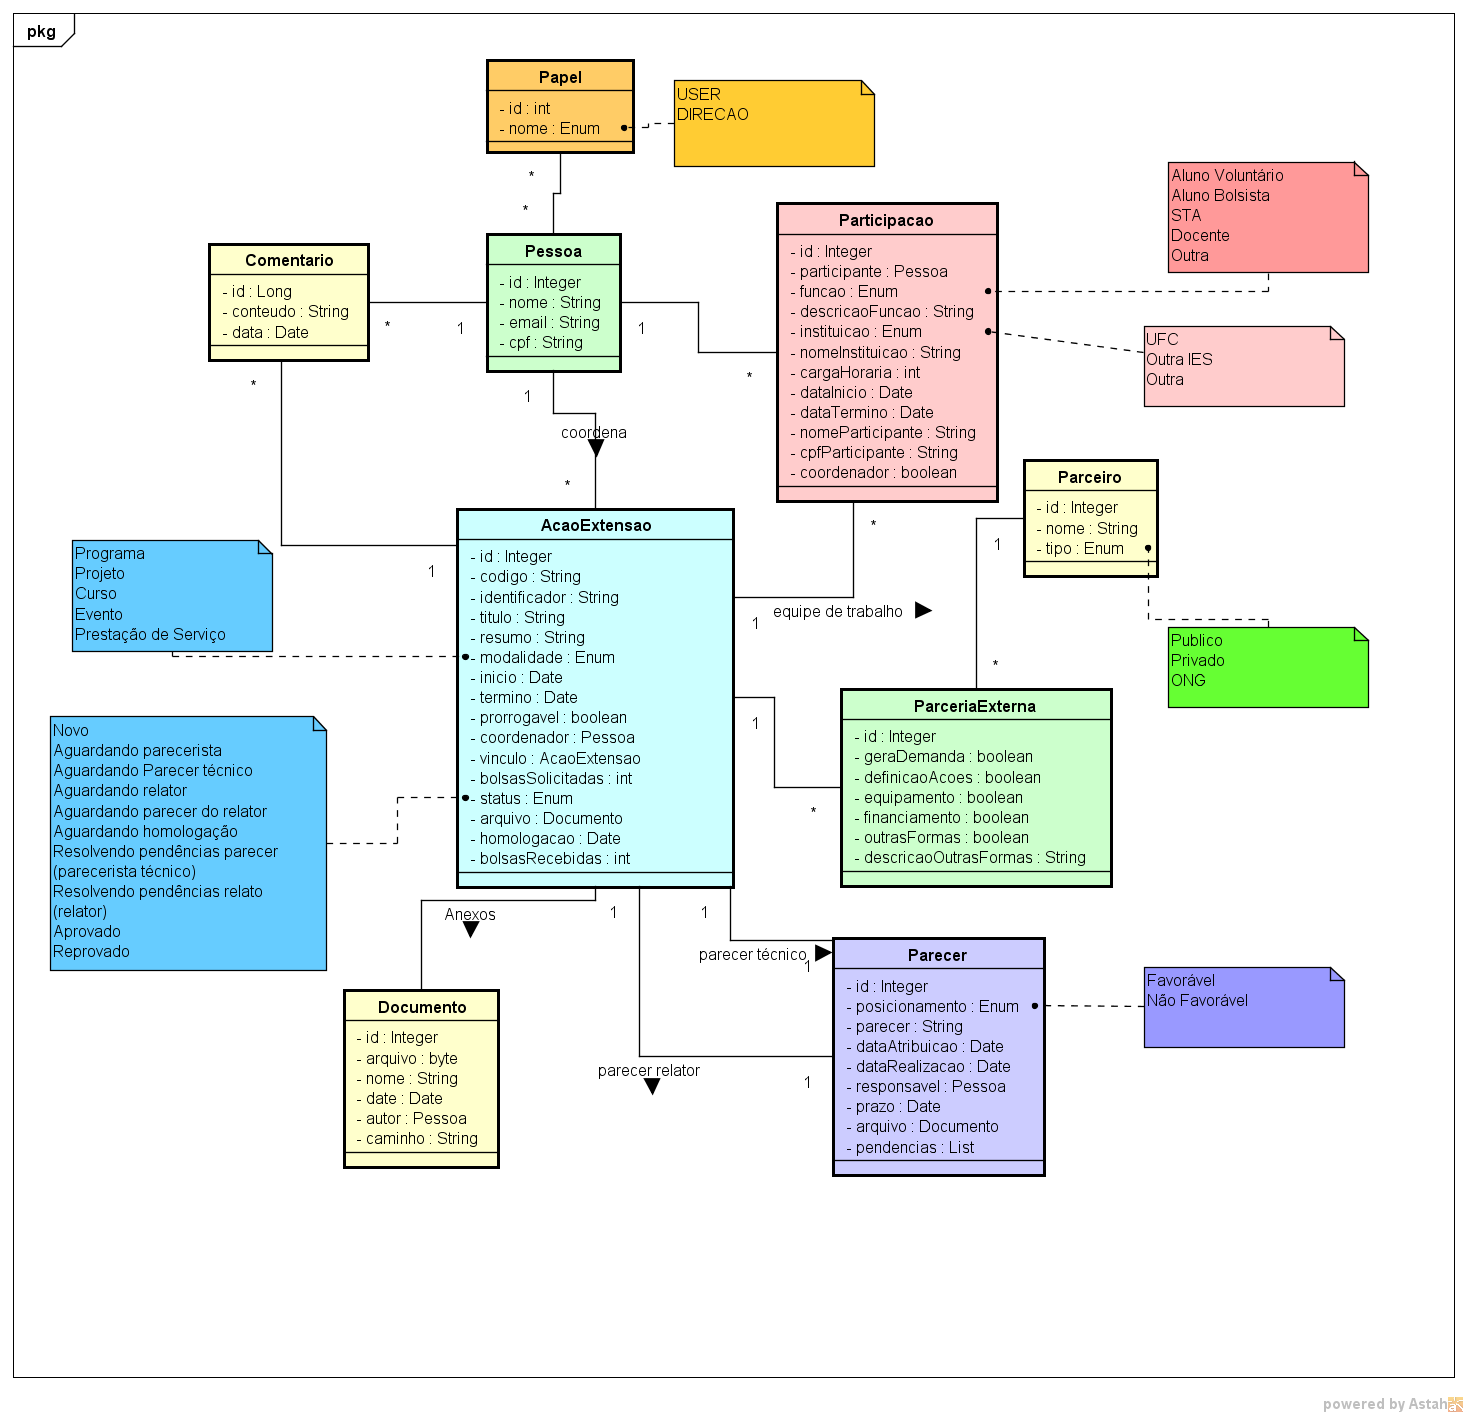
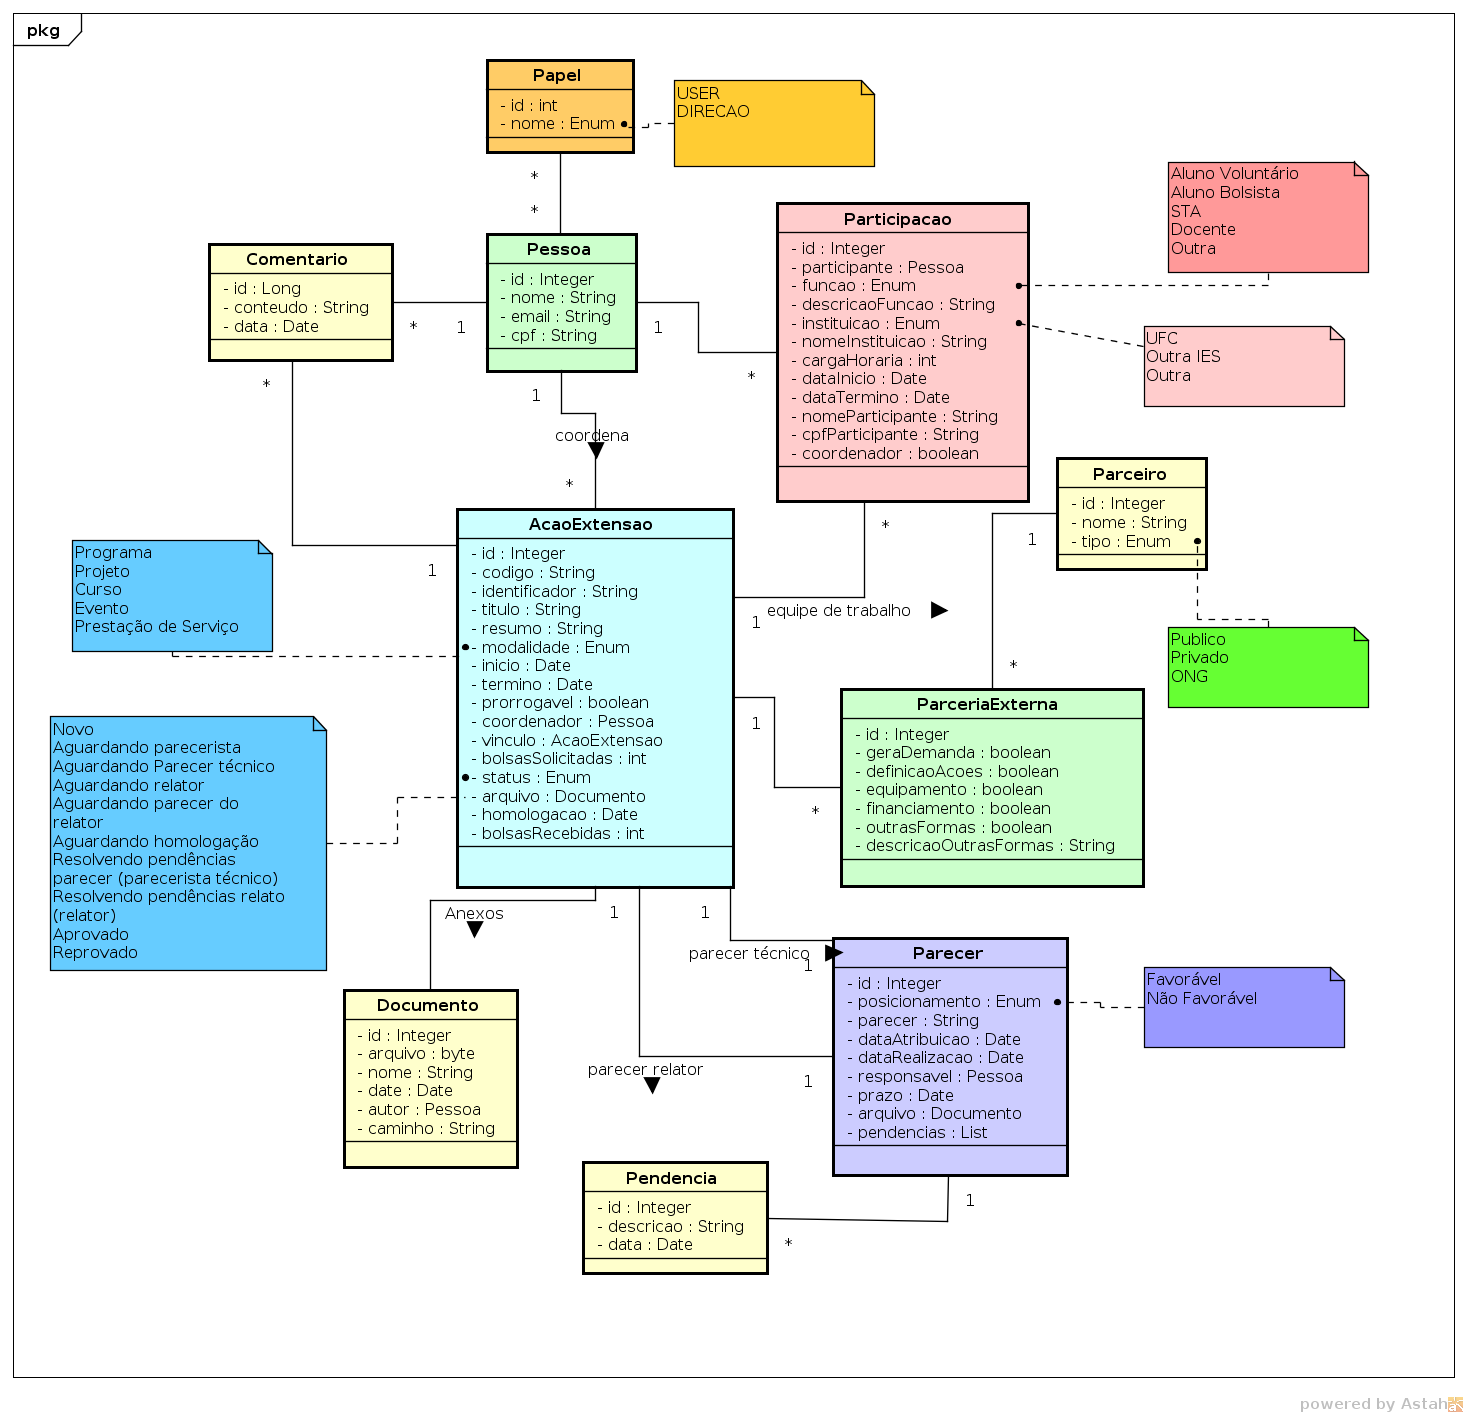
JNDI configurado para criar tabelas e diagrama de classe atualizado

diff --git a/aplicacao/gpa-extensao/src/main/java/ufc/quixada/npi/gpa/model/Pendencia.java b/aplicacao/gpa-extensao/src/main/java/ufc/quixada/npi/gpa/model/Pendencia.java
@@ -1,0 +1,70 @@
+package ufc.quixada.npi.gpa.model;
+
+import java.util.Date;
+
+import javax.persistence.Column;
+import javax.persistence.Entity;
+import javax.persistence.GeneratedValue;
+import javax.persistence.GenerationType;
+import javax.persistence.Id;
+
+@Entity
+public class Pendencia {
+	@Id
+	@GeneratedValue(strategy=GenerationType.IDENTITY)
+	private Integer id;
+	@Column(columnDefinition="TEXT")
+	private String descricao;
+	private Date dataDeSolicitacao;
+	public Pendencia(String descricao, Date dataDeSolicitacao) {
+		super();
+		this.descricao = descricao;
+		this.dataDeSolicitacao = dataDeSolicitacao;
+	}
+	public Pendencia() {
+		super();
+	}
+	public Integer getId() {
+		return id;
+	}
+	public void setId(Integer id) {
+		this.id = id;
+	}
+	public String getDescricao() {
+		return descricao;
+	}
+	public void setDescricao(String descricao) {
+		this.descricao = descricao;
+	}
+	public Date getDataDeSolicitacao() {
+		return dataDeSolicitacao;
+	}
+	public void setDataDeSolicitacao(Date dataDeSolicitacao) {
+		this.dataDeSolicitacao = dataDeSolicitacao;
+	}
+	@Override
+	public int hashCode() {
+		final int prime = 31;
+		int result = 1;
+		result = prime * result + ((id == null) ? 0 : id.hashCode());
+		return result;
+	}
+	@Override
+	public boolean equals(Object obj) {
+		if (this == obj)
+			return true;
+		if (obj == null)
+			return false;
+		if (getClass() != obj.getClass())
+			return false;
+		Pendencia other = (Pendencia) obj;
+		if (id == null) {
+			if (other.id != null)
+				return false;
+		} else if (!id.equals(other.id))
+			return false;
+		return true;
+	}
+	
+	
+}

diff --git a/aplicacao/gpa-extensao/src/main/java/ufc/quixada/npi/gpa/model/Parecer.java b/aplicacao/gpa-extensao/src/main/java/ufc/quixada/npi/gpa/model/Parecer.java
@@ -12,6 +12,7 @@ import javax.persistence.GenerationType;
 import javax.persistence.Id;
 import javax.persistence.JoinColumn;
 import javax.persistence.ManyToOne;
+import javax.persistence.OneToMany;
 import javax.persistence.OneToOne;
 import javax.validation.constraints.NotNull;
 @Entity
@@ -32,7 +33,8 @@ public class Parecer {
 	private Date prazo;
 	@OneToOne
 	private Documento arquivo;
-	private List<String> pendencias;
+	@OneToMany
+	private List<Pendencia> pendencias;
 	public Parecer() {
 		super();
 	}
@@ -106,20 +108,20 @@ public class Parecer {
 		this.prazo = prazo;
 	}
 
+	public List<Pendencia> getPendencias() {
+		return pendencias;
+	}
+
+	public void setPendencias(List<Pendencia> pendencias) {
+		this.pendencias = pendencias;
+	}
+
 	public Documento getArquivo() {
 		return arquivo;
 	}
 
 	public void setArquivo(Documento arquivo) {
 		this.arquivo = arquivo;
-	}
-
-	public List<String> getPendencias() {
-		return pendencias;
-	}
-
-	public void setPendencias(List<String> pendencias) {
-		this.pendencias = pendencias;
 	}
 
 	public enum Posicionamento{

diff --git a/aplicacao/gpa-extensao/src/main/java/ufc/quixada/npi/gpa/model/AcaoExtensao.java b/aplicacao/gpa-extensao/src/main/java/ufc/quixada/npi/gpa/model/AcaoExtensao.java
@@ -4,6 +4,7 @@ import java.util.Date;
 import java.util.List;
 
 import javax.persistence.Entity;
+import javax.persistence.Enumerated;
 import javax.persistence.GeneratedValue;
 import javax.persistence.GenerationType;
 import javax.persistence.Id;
@@ -26,11 +27,14 @@ public class AcaoExtensao {
 	private boolean prorrogavel;
 	@ManyToOne
 	private Pessoa coordenador;
+	@ManyToOne
 	private AcaoExtensao vinculo;
 	private Integer bolsasSolicitadas;
 	private Date dataDeHomologacao;
 	private int bolsasRecebidas;
+	@Enumerated
 	private Status status;
+	@OneToOne
 	private Documento anexo;
 	@OneToMany
 	private List<Comentario> comentarios;

diff --git a/aplicacao/gpa-extensao/src/main/java/ufc/quixada/npi/gpa/config/ServletInitializer.java b/aplicacao/gpa-extensao/src/main/java/ufc/quixada/npi/gpa/config/ServletInitializer.java
@@ -1,13 +1,16 @@
 package ufc.quixada.npi.gpa.config;
 
+import org.springframework.boot.autoconfigure.EnableAutoConfiguration;
 import org.springframework.boot.builder.SpringApplicationBuilder;
 import org.springframework.boot.context.web.SpringBootServletInitializer;
+import org.springframework.context.annotation.ComponentScan;
 
+@EnableAutoConfiguration
+@ComponentScan
 public class ServletInitializer extends SpringBootServletInitializer {
 
 	@Override
 	protected SpringApplicationBuilder configure(SpringApplicationBuilder application) {
 		return application.sources(GpaExtensaoApplication.class);
 	}
-
 }

diff --git a/aplicacao/gpa-extensao/src/main/java/ufc/quixada/npi/gpa/config/GpaExtensaoApplication.java b/aplicacao/gpa-extensao/src/main/java/ufc/quixada/npi/gpa/config/GpaExtensaoApplication.java
@@ -2,10 +2,12 @@ package ufc.quixada.npi.gpa.config;
 
 import org.springframework.boot.SpringApplication;
 import org.springframework.boot.autoconfigure.SpringBootApplication;
+import org.springframework.boot.orm.jpa.EntityScan;
 import org.springframework.context.annotation.ComponentScan;
 
 @SpringBootApplication
 @ComponentScan({"br.ufc.quixada.npi.ldap", "ufc.quixada.npi.gpa"})
+@EntityScan(basePackages="ufc.quixada.npi.gpa.model")
 public class GpaExtensaoApplication {
 
 	public static void main(String[] args) {
